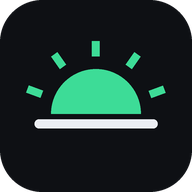
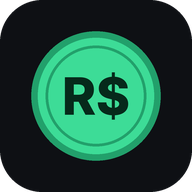
Publica no Netlify e troca o ícone por uma moeda com R$
- netlify.toml: publica a raiz sem build, sw.js sem cache e
  Content-Type correto para o manifest.
- Novo ícone (moeda verde com R$), com versão maskable,
  apple-touch-icon 180 px e favicon PNG; remove o SVG antigo.
- README com o passo a passo do Netlify no lugar do GitHub Pages.
- CACHE_VERSION 1.1.0 para os aparelhos baixarem os novos ícones.

Claude-Session: https://claude.ai/code/session_0186iczoG9P2cLLKZmU5Qanj

diff --git a/sw.js b/sw.js
@@ -1,7 +1,7 @@
 // Service worker: cache-first para os arquivos do app (funciona 100% offline
 // depois da primeira visita). Ao publicar mudanças, aumente CACHE_VERSION.
 
-const CACHE_VERSION = '1.0.0';
+const CACHE_VERSION = '1.1.0';
 const CACHE = `hoje-${CACHE_VERSION}`;
 
 const APP_FILES = [
@@ -9,7 +9,8 @@ const APP_FILES = [
   './index.html',
   './manifest.webmanifest',
   './css/app.css',
-  './icons/icon.svg',
+  './icons/favicon-48.png',
+  './icons/apple-touch-icon.png',
   './icons/icon-192.png',
   './icons/icon-512.png',
   './icons/icon-maskable-512.png',

diff --git a/index.html b/index.html
@@ -12,8 +12,8 @@
   <meta name="apple-mobile-web-app-title" content="Hoje">
   <title>Hoje</title>
   <link rel="manifest" href="manifest.webmanifest">
-  <link rel="icon" href="icons/icon.svg" type="image/svg+xml">
-  <link rel="apple-touch-icon" href="icons/icon-192.png">
+  <link rel="icon" href="icons/favicon-48.png" type="image/png" sizes="48x48">
+  <link rel="apple-touch-icon" href="icons/apple-touch-icon.png">
   <link rel="stylesheet" href="css/app.css">
 </head>
 <body>

diff --git a/js/version.js b/js/version.js
@@ -1,2 +1,2 @@
 // Mantenha igual a CACHE_VERSION em sw.js ao publicar uma nova versão.
-export const APP_VERSION = '1.0.0';
+export const APP_VERSION = '1.1.0';

diff --git a/tools/gen-icons.py b/tools/gen-icons.py
@@ -1,12 +1,24 @@
-"""Gera os ícones do PWA (sol nascendo sobre o horizonte). Uso: python3 tools/gen-icons.py"""
+"""Gera os ícones do PWA (moeda com R$). Uso: python3 tools/gen-icons.py [--out DIR]"""
+import argparse
 from pathlib import Path
-from PIL import Image, ImageDraw
+from PIL import Image, ImageDraw, ImageFont
 
 BG = (14, 16, 20, 255)
-SUN = (61, 220, 151, 255)
-LINE = (236, 238, 243, 255)
-OUT = Path(__file__).resolve().parent.parent / "icons"
+COIN = (61, 220, 151, 255)       # verde de destaque do app
+COIN_DARK = (34, 160, 107, 255)  # borda / lateral da moeda
+INK = (6, 42, 27, 255)           # texto sobre o verde
+FONT = "/usr/share/fonts/opentype/inter/Inter-ExtraBold.otf"
 SS = 4  # supersampling para bordas suaves
+
+
+def coin(d, cx, cy, r, unit):
+    d.ellipse([cx - r, cy - r, cx + r, cy + r], fill=COIN_DARK)
+    ri = r * 0.90
+    d.ellipse([cx - ri, cy - ri, cx + ri, cy + ri], fill=COIN)
+    rr = r * 0.78  # anel interno
+    d.ellipse([cx - rr, cy - rr, cx + rr, cy + rr], outline=COIN_DARK, width=max(1, int(unit * 0.018)))
+    font = ImageFont.truetype(FONT, int(r * 0.80))
+    d.text((cx, cy), "R$", font=font, fill=INK, anchor="mm")
 
 
 def draw(size, maskable=False):
@@ -15,32 +27,23 @@ def draw(size, maskable=False):
     d = ImageDraw.Draw(img)
     if maskable:
         d.rectangle([0, 0, s, s], fill=BG)
-        scale = 0.62  # conteúdo dentro da zona segura
+        unit = s * 0.66  # conteúdo dentro da zona segura
     else:
         d.rounded_rectangle([0, 0, s - 1, s - 1], radius=int(s * 0.22), fill=BG)
-        scale = 0.78
+        unit = s * 0.84
     c = s / 2
-    unit = s * scale
-    horizon = c + unit * 0.12
-    r = unit * 0.30
-    # sol: meio disco acima do horizonte
-    d.pieslice([c - r, horizon - r, c + r, horizon + r], 180, 360, fill=SUN)
-    # raios
-    import math
-    for ang in (200, 235, 270, 305, 340):
-        a = math.radians(ang)
-        r1, r2 = r * 1.28, r * 1.62
-        d.line([c + r1 * math.cos(a), horizon + r1 * math.sin(a),
-                c + r2 * math.cos(a), horizon + r2 * math.sin(a)], fill=SUN, width=int(unit * 0.055))
-    # horizonte
-    w = unit * 0.82
-    t = unit * 0.06
-    d.rounded_rectangle([c - w / 2, horizon + t * 0.6, c + w / 2, horizon + t * 1.6], radius=int(t / 2), fill=LINE)
+    coin(d, c, c, unit * 0.40, unit)
     return img.resize((size, size), Image.LANCZOS)
 
 
-OUT.mkdir(exist_ok=True)
-draw(192).save(OUT / "icon-192.png")
-draw(512).save(OUT / "icon-512.png")
-draw(512, maskable=True).save(OUT / "icon-maskable-512.png")
-print("ícones gerados em", OUT)
+ap = argparse.ArgumentParser()
+ap.add_argument("--out", default=str(Path(__file__).resolve().parent.parent / "icons"))
+args = ap.parse_args()
+out = Path(args.out)
+out.mkdir(parents=True, exist_ok=True)
+draw(192).save(out / "icon-192.png")
+draw(512).save(out / "icon-512.png")
+draw(512, maskable=True).save(out / "icon-maskable-512.png")
+draw(180).save(out / "apple-touch-icon.png")
+draw(48).save(out / "favicon-48.png")
+print("ícones gerados em", out)

diff --git a/README.md b/README.md
@@ -44,15 +44,29 @@ Os testes usam um cenário **fictício** (`tests/fixtures.js`), equivalente ao d
 - Receitas, despesas e aportes só mexem no saldo quando você confirma ("Recebeu?" / "Pagou?" / "Fez o aporte?"). Até lá, contam como previstos. Se atrasarem, contam como previstos para hoje.
 - Datas são strings `AAAA-MM-DD`, e "hoje" é calculado no fuso `America/Sao_Paulo`. Valores são guardados em centavos inteiros.
 
-## Publicar no GitHub Pages
+## Publicar no Netlify
 
-1. Envie os arquivos para a branch `main` do repositório (já feito neste repositório).
-2. No GitHub, abra o repositório → **Settings** → **Pages**.
-3. Em **Build and deployment** → **Source**, escolha **Deploy from a branch**.
-4. Em **Branch**, escolha `main` e a pasta `/ (root)`. Clique em **Save**.
-5. Espere 1–2 minutos. O endereço aparece no topo da página de Pages, algo como `https://SEU-USUARIO.github.io/hoje_app/`.
+O site é estático e não tem build. O `netlify.toml` já configura tudo: publica a pasta raiz e envia o `sw.js` sem cache, para as atualizações chegarem.
 
-> O GitHub Pages gratuito exige repositório **público**. Isso publica só o código; seus dados continuam só no celular. Com repositório privado, o Pages precisa do GitHub Pro.
+### Opção 1 — ligado ao GitHub (recomendada: cada push publica sozinho)
+
+1. Entre em https://app.netlify.com (dá para criar a conta com o GitHub).
+2. **Add new site** → **Import an existing project** → **GitHub**.
+3. Autorize o Netlify e escolha o repositório **hoje_app**.
+4. Confira as configurações (o `netlify.toml` já preenche):
+   - **Branch to deploy:** `main`
+   - **Build command:** deixe vazio
+   - **Publish directory:** `.`
+5. Clique em **Deploy**. Em menos de 1 minuto o site fica no ar em `https://nome-aleatorio.netlify.app`.
+6. Para escolher o nome: **Site configuration** → **Change site name** (ex.: `hoje-financas` → `https://hoje-financas.netlify.app`).
+
+Funciona com repositório **privado** no plano gratuito. A partir daí, todo `git push` na `main` publica uma nova versão.
+
+### Opção 2 — arrastar e soltar (sem GitHub)
+
+1. Baixe o repositório como ZIP e descompacte.
+2. Entre em https://app.netlify.com/drop, faça login e arraste a pasta.
+3. Para atualizar, arraste a pasta de novo em **Deploys** do site.
 
 ### Publicar uma nova versão
 
@@ -60,7 +74,7 @@ Ao mudar qualquer arquivo, aumente `CACHE_VERSION` em `sw.js` (e `APP_VERSION` e
 
 ## Instalar no celular
 
-**Android (Chrome):** abra o endereço do Pages → menu ⋮ → **Instalar app** (ou "Adicionar à tela inicial").
+**Android (Chrome):** abra o endereço do Netlify → menu ⋮ → **Instalar app** (ou "Adicionar à tela inicial").
 
 **iPhone (Safari):** abra o endereço no **Safari** → botão Compartilhar → **Adicionar à Tela de Início**.
 
@@ -73,11 +87,11 @@ Depois de instalado, abra o app uma vez com internet. A partir daí ele funciona
 ## Estrutura
 
 ```
-index.html  manifest.webmanifest  sw.js  css/app.css  icons/
+index.html  manifest.webmanifest  sw.js  netlify.toml  css/app.css  icons/
 js/app.js                 roteador, renderização, virada de dia
 js/core/                  lógica pura (testada no Node)
 js/data/                  estado salvo e lançamentos
 js/ui/                    componentes, formulários e telas
 tests/                    testes (node --test)
-tools/gen-icons.py        gera os ícones PNG (Pillow)
+tools/gen-icons.py        gera os ícones PNG (moeda com R$; Pillow + fonte Inter)
 ```
